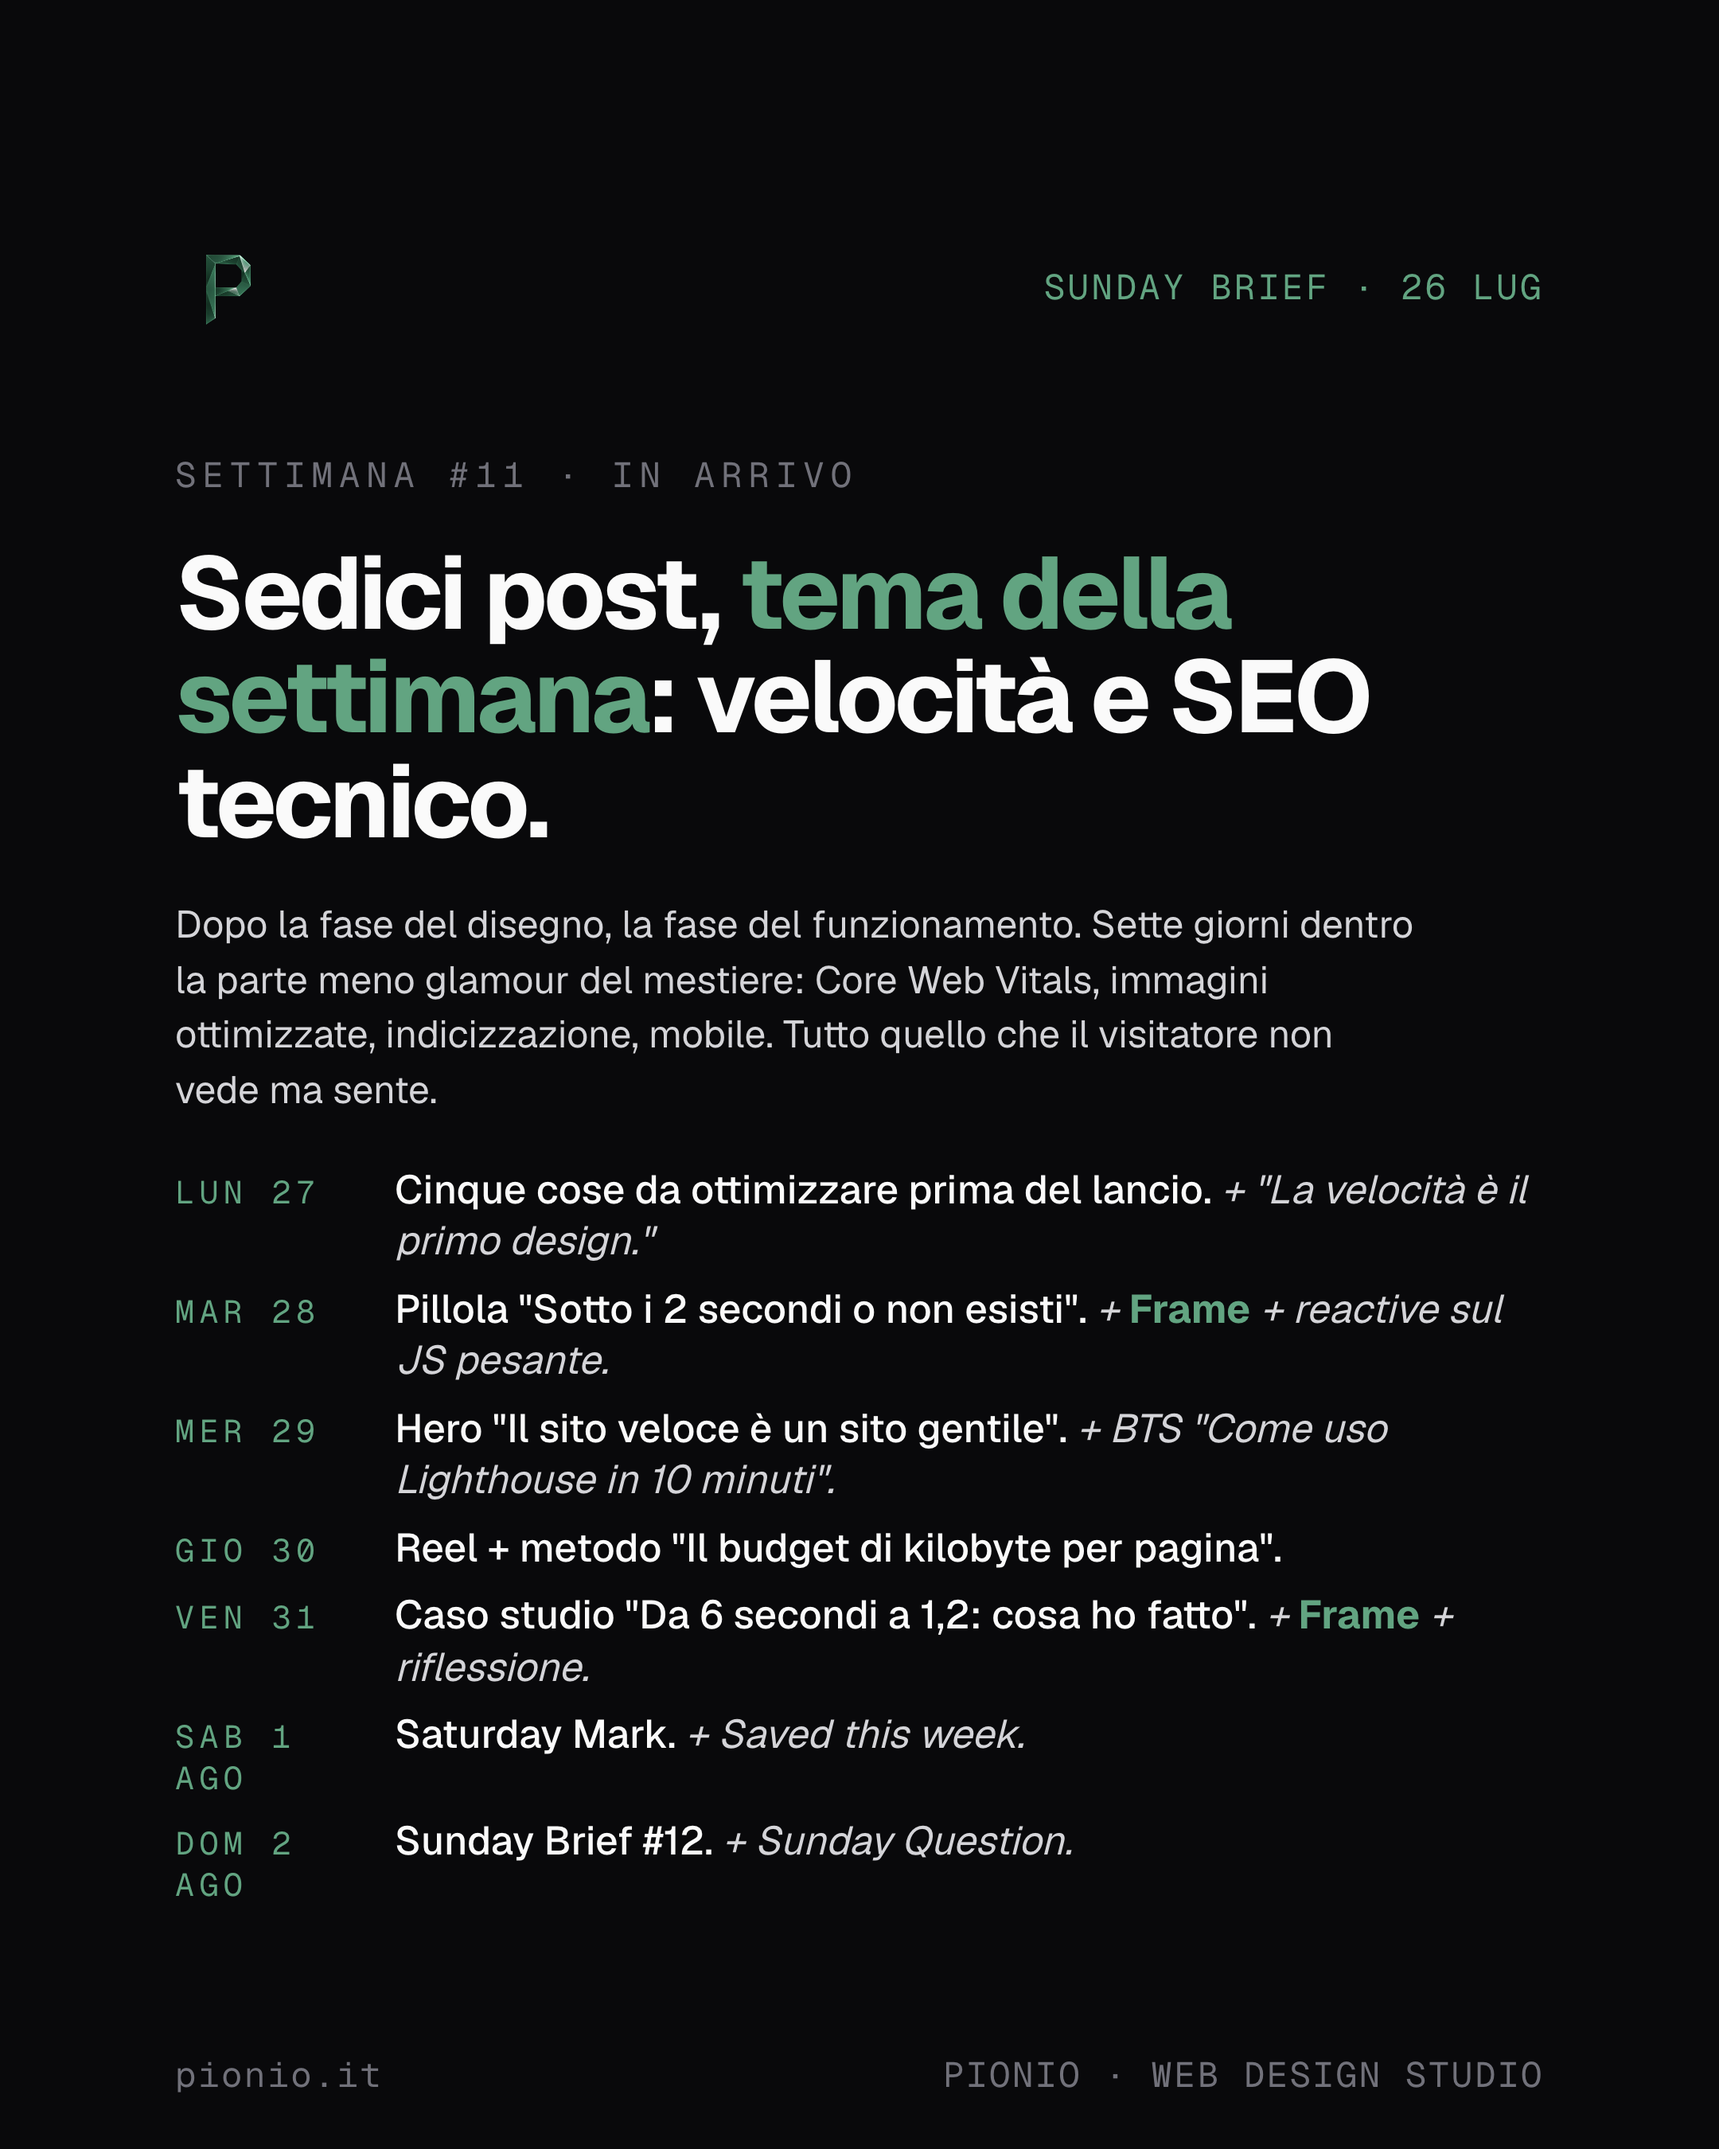
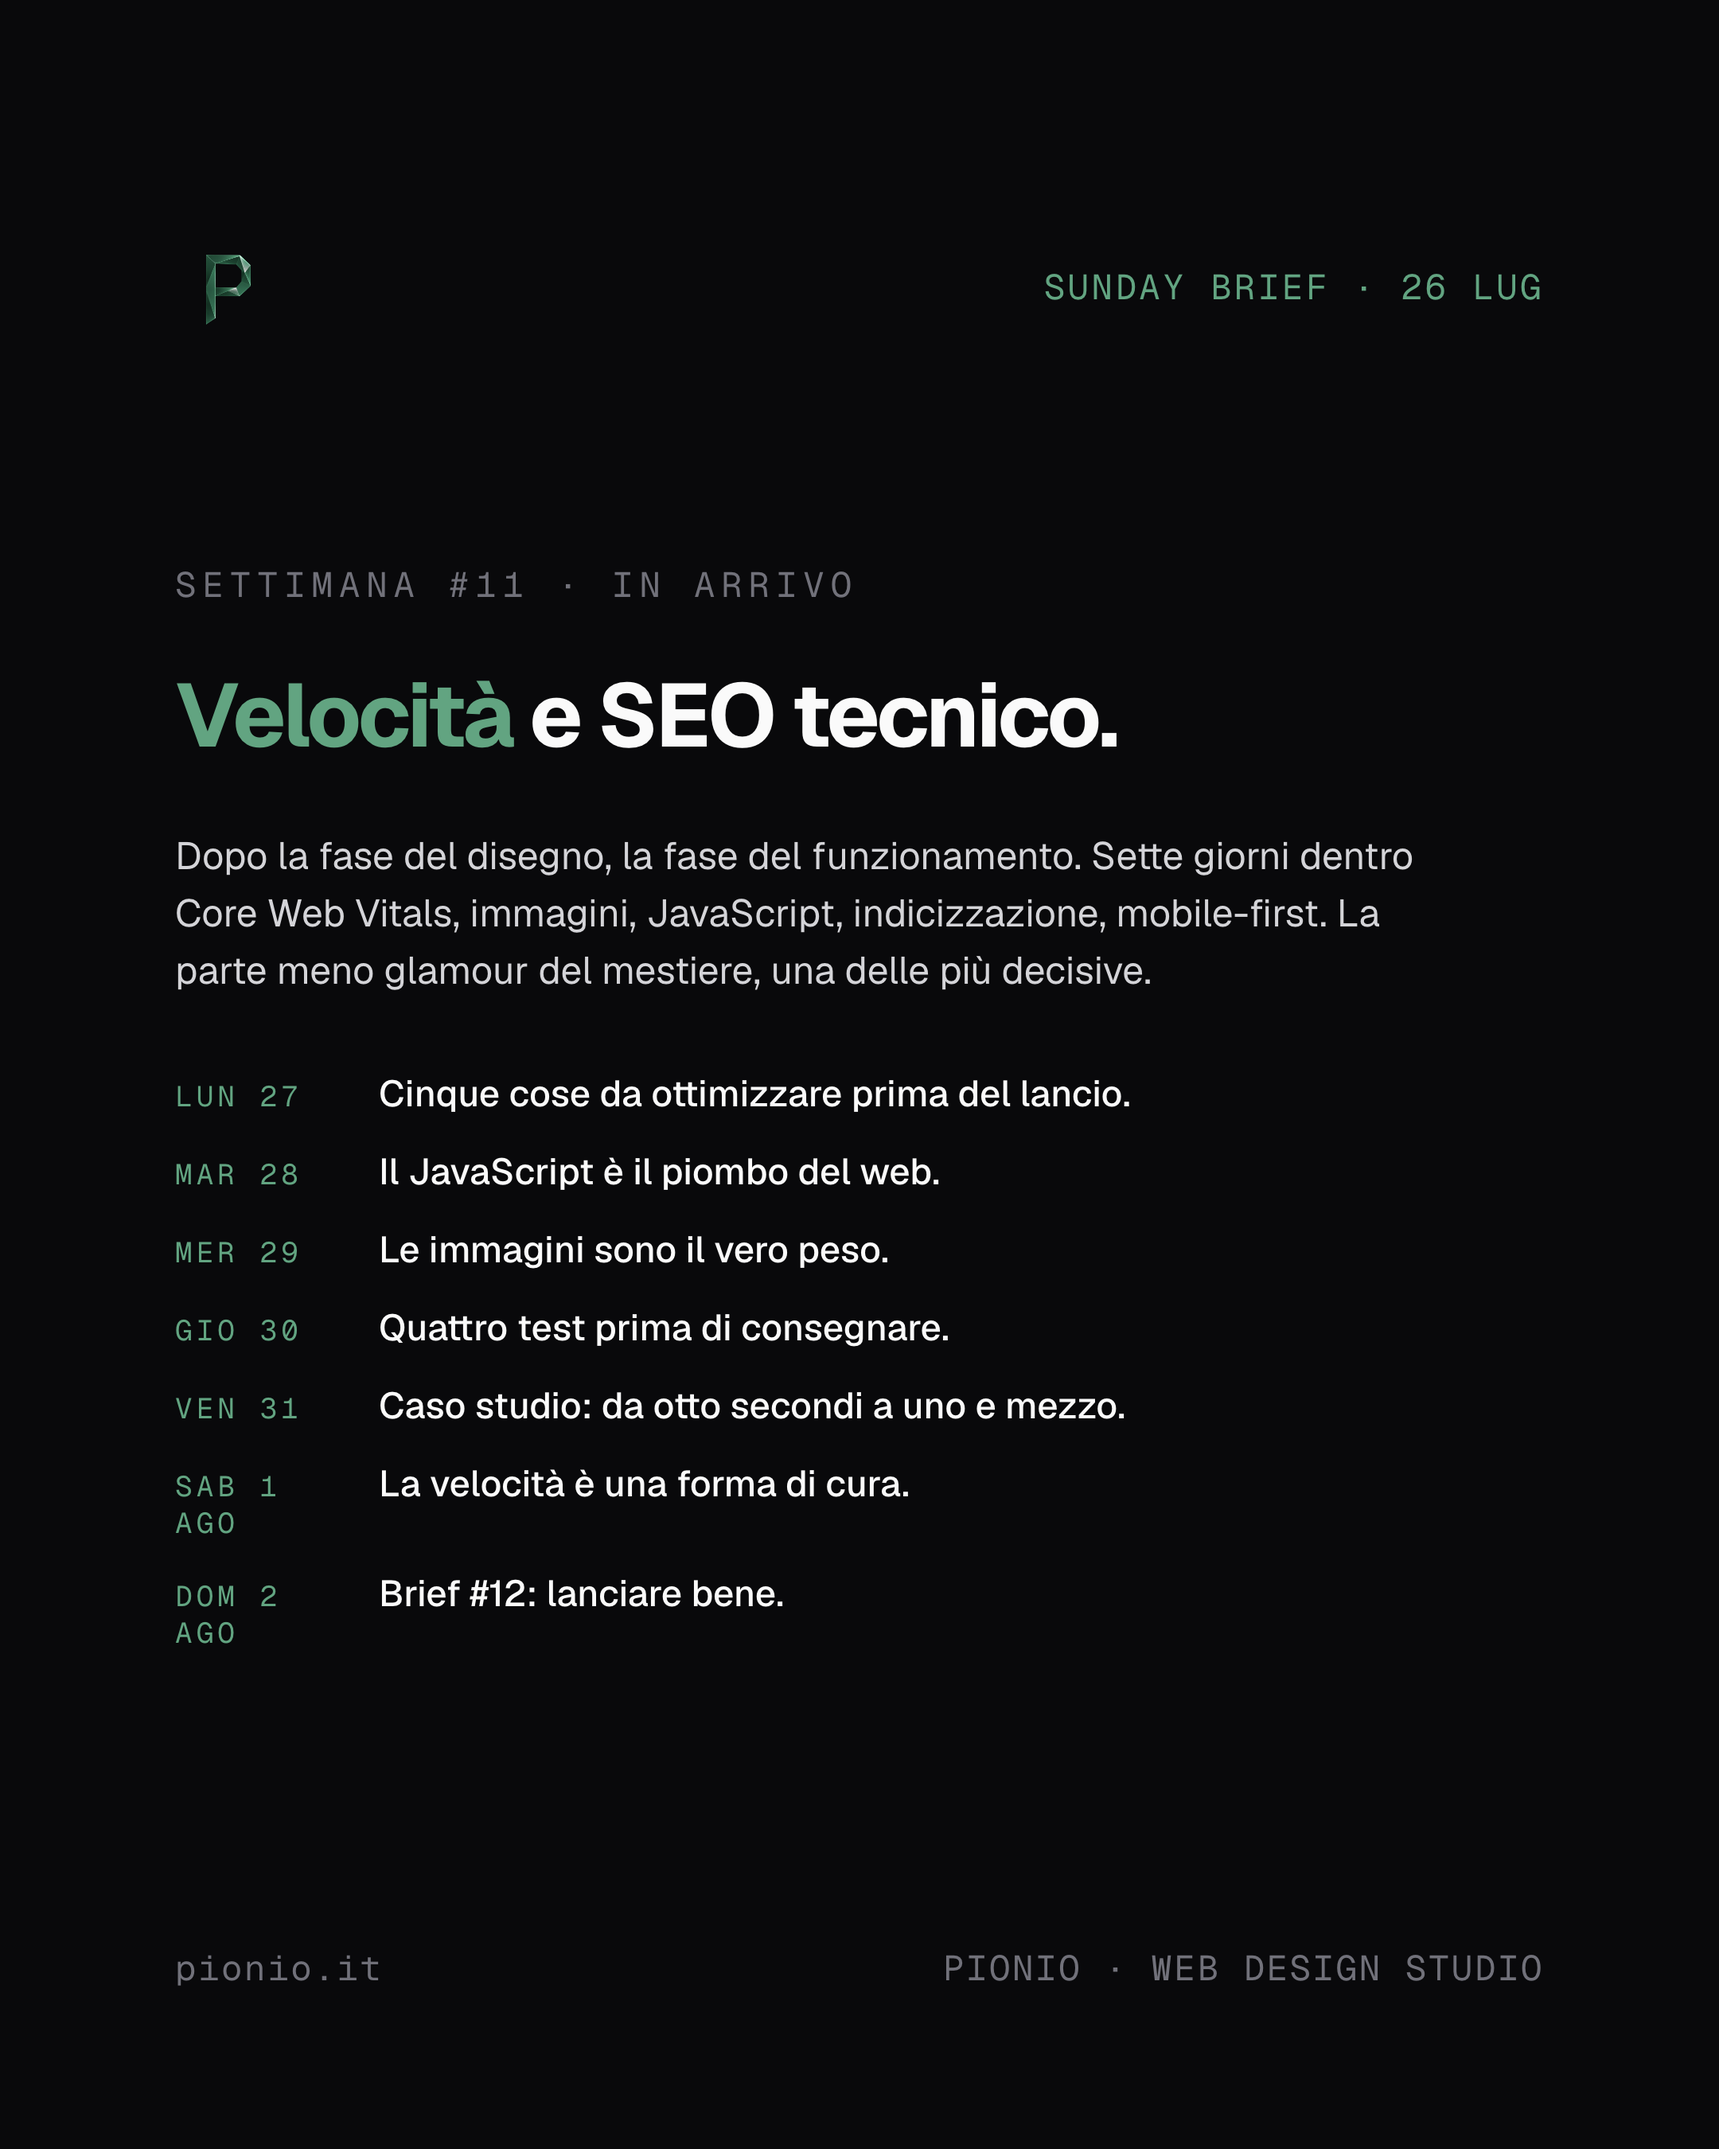
fix(instagram): Brief #11 — layout respirato, lista allineata ai titoli W11 reali

diff --git a/instagram/content/settimana-10-lug-2026/7-dom-26-13-brief-settimana-11/src/slides.html b/instagram/content/settimana-10-lug-2026/7-dom-26-13-brief-settimana-11/src/slides.html
@@ -17,15 +17,15 @@
   .logo { width: 64px; height: 64px; }
   .logo img { width: 100%; height: 100%; object-fit: contain; }
   .eyebrow { font-family: "Geist Mono", monospace; font-weight: 400; font-size: 22px; color: var(--accent); letter-spacing: 0.08em; text-transform: uppercase; }
-  .main { display: flex; flex-direction: column; justify-content: flex-start; gap: 28px; padding-top: 24px; }
+  .main { display: flex; flex-direction: column; justify-content: center; gap: 40px; }
   .brief-kicker { font-family: "Geist Mono", monospace; font-size: 22px; color: var(--muted-dim); letter-spacing: 0.18em; text-transform: uppercase; }
-  .brief-title { font-family: "Geist", sans-serif; font-weight: 700; font-size: 64px; line-height: 1.02; letter-spacing: -0.035em; color: var(--text); max-width: 880px; }
+  .brief-title { font-family: "Geist", sans-serif; font-weight: 700; font-size: 56px; line-height: 1.05; letter-spacing: -0.035em; color: var(--text); max-width: 880px; }
   .brief-title em { font-style: normal; color: var(--accent); }
-  .brief-lead { font-family: "Geist", sans-serif; font-weight: 400; font-size: 24px; line-height: 1.45; color: var(--muted); max-width: 780px; }
-  .brief-list { list-style: none; display: flex; flex-direction: column; gap: 10px; margin-top: 0; }
-  .brief-list li { display: grid; grid-template-columns: 110px 1fr; gap: 28px; align-items: baseline; }
-  .brief-list .day { font-family: "Geist Mono", monospace; font-size: 20px; color: var(--accent); letter-spacing: 0.16em; text-transform: uppercase; }
-  .brief-list .topic { font-family: "Geist", sans-serif; font-weight: 500; font-size: 25px; line-height: 1.3; color: var(--text); }
+  .brief-lead { font-family: "Geist", sans-serif; font-weight: 400; font-size: 24px; line-height: 1.5; color: var(--muted); max-width: 800px; }
+  .brief-list { list-style: none; display: flex; flex-direction: column; gap: 18px; margin-top: 4px; }
+  .brief-list li { display: grid; grid-template-columns: 100px 1fr; gap: 28px; align-items: baseline; }
+  .brief-list .day { font-family: "Geist Mono", monospace; font-size: 18px; color: var(--accent); letter-spacing: 0.14em; text-transform: uppercase; }
+  .brief-list .topic { font-family: "Geist", sans-serif; font-weight: 500; font-size: 23px; line-height: 1.35; color: var(--text); }
   .brief-list .topic em { font-style: italic; color: var(--muted); font-weight: 400; }
   .brief-list .topic .frame { color: var(--accent); font-style: normal; font-weight: 600; }
   .footer { display: flex; align-items: flex-end; justify-content: space-between; }
@@ -40,18 +40,18 @@
   </div>
   <div class="main">
     <div class="brief-kicker">SETTIMANA #11 · IN ARRIVO</div>
-    <h1 class="brief-title">Sedici post, <em>tema della settimana</em>: velocità e SEO tecnico.</h1>
+    <h1 class="brief-title"><em>Velocità</em> e SEO tecnico.</h1>
     <p class="brief-lead">
-      Dopo la fase del disegno, la fase del funzionamento. Sette giorni dentro la parte meno glamour del mestiere: Core Web Vitals, immagini ottimizzate, indicizzazione, mobile. Tutto quello che il visitatore non vede ma sente.
+      Dopo la fase del disegno, la fase del funzionamento. Sette giorni dentro Core Web Vitals, immagini, JavaScript, indicizzazione, mobile-first. La parte meno glamour del mestiere, una delle più decisive.
     </p>
     <ul class="brief-list">
-      <li><span class="day">Lun 27</span><span class="topic">Cinque cose da ottimizzare prima del lancio. <em>+ "La velocità è il primo design."</em></span></li>
-      <li><span class="day">Mar 28</span><span class="topic">Pillola "Sotto i 2 secondi o non esisti". <em>+ <span class="frame">Frame</span> + reactive sul JS pesante.</em></span></li>
-      <li><span class="day">Mer 29</span><span class="topic">Hero "Il sito veloce è un sito gentile". <em>+ BTS "Come uso Lighthouse in 10 minuti".</em></span></li>
-      <li><span class="day">Gio 30</span><span class="topic">Reel + metodo "Il budget di kilobyte per pagina". <em></em></span></li>
-      <li><span class="day">Ven 31</span><span class="topic">Caso studio "Da 6 secondi a 1,2: cosa ho fatto". <em>+ <span class="frame">Frame</span> + riflessione.</em></span></li>
-      <li><span class="day">Sab 1 ago</span><span class="topic">Saturday Mark. <em>+ Saved this week.</em></span></li>
-      <li><span class="day">Dom 2 ago</span><span class="topic">Sunday Brief #12. <em>+ Sunday Question.</em></span></li>
+      <li><span class="day">Lun 27</span><span class="topic">Cinque cose da ottimizzare prima del lancio.</span></li>
+      <li><span class="day">Mar 28</span><span class="topic">Il JavaScript è il piombo del web.</span></li>
+      <li><span class="day">Mer 29</span><span class="topic">Le immagini sono il vero peso.</span></li>
+      <li><span class="day">Gio 30</span><span class="topic">Quattro test prima di consegnare.</span></li>
+      <li><span class="day">Ven 31</span><span class="topic">Caso studio: da otto secondi a uno e mezzo.</span></li>
+      <li><span class="day">Sab 1 ago</span><span class="topic">La velocità è una forma di cura.</span></li>
+      <li><span class="day">Dom 2 ago</span><span class="topic">Brief #12: lanciare bene.</span></li>
     </ul>
   </div>
   <div class="footer">
